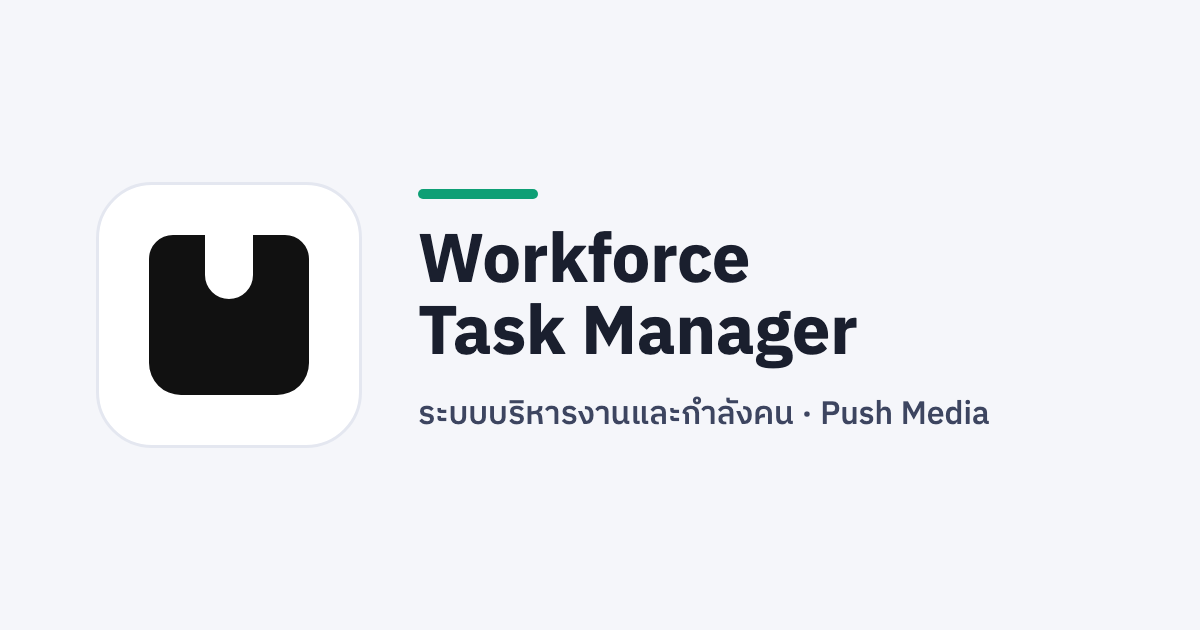
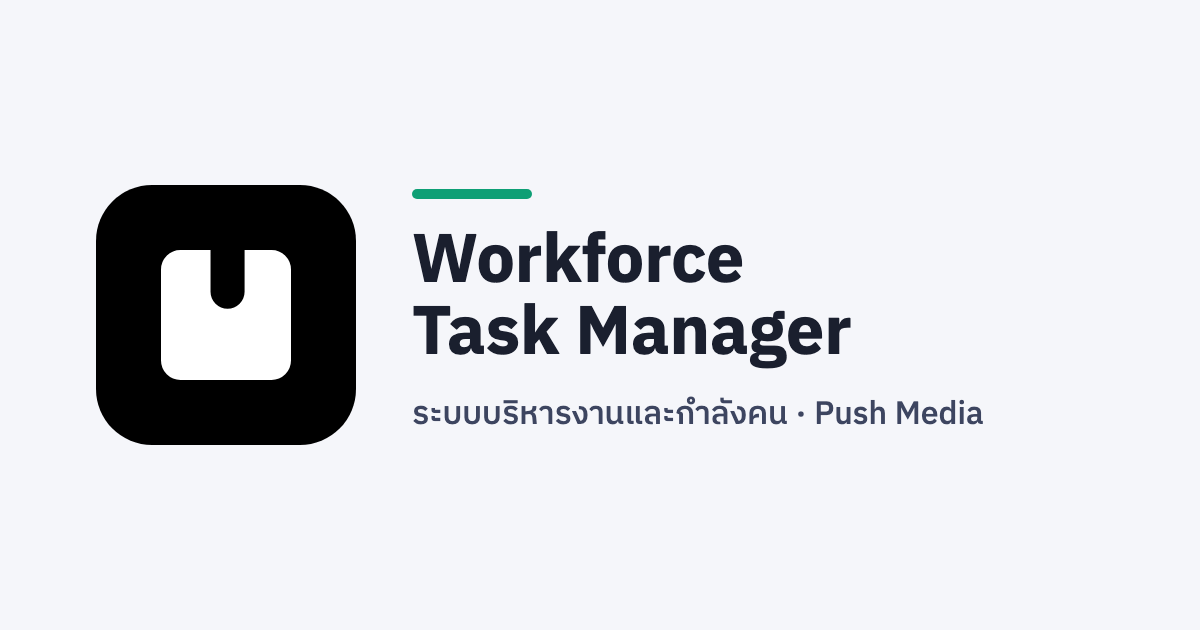
เปลี่ยนไอคอนเป็นพื้นดำ

diff --git a/index.html b/index.html
@@ -4,16 +4,16 @@
 <meta charset="UTF-8">
 <meta name="viewport" content="width=device-width, initial-scale=1.0">
 <title>Workforce Task Manager</title>
-<link rel="icon" type="image/svg+xml" href="favicon.svg">
-<link rel="icon" type="image/png" sizes="32x32" href="favicon-32.png">
-<link rel="apple-touch-icon" href="apple-touch-icon.png">
+<link rel="icon" type="image/svg+xml" href="favicon.svg?v=2">
+<link rel="icon" type="image/png" sizes="32x32" href="favicon-32.png?v=2">
+<link rel="apple-touch-icon" href="apple-touch-icon.png?v=2">
 <meta name="theme-color" content="#0E9F75">
 <meta name="description" content="ระบบบริหารงานและกำลังคน · Push Media Co., Ltd">
 <meta property="og:type" content="website">
 <meta property="og:title" content="Workforce Task Manager">
 <meta property="og:description" content="ระบบบริหารงานและกำลังคน · Push Media Co., Ltd">
 <meta property="og:url" content="https://itsupport2-pixel.github.io/wtm-liff/">
-<meta property="og:image" content="https://itsupport2-pixel.github.io/wtm-liff/og-image.png">
+<meta property="og:image" content="https://itsupport2-pixel.github.io/wtm-liff/og-image.png?v=2">
 <meta property="og:image:width" content="1200">
 <meta property="og:image:height" content="630">
 <link rel="preconnect" href="https://fonts.googleapis.com">
